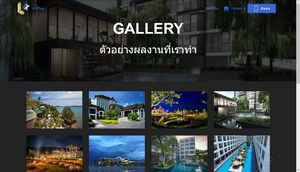
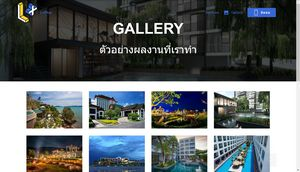
add GA code & social sharing image

Changed region(s): [[0.0, 0.4651, 1.0, 1.0], [0.69, 0.0, 0.93, 0.1163], [0.03, 0.0, 0.18, 0.1453]]

diff --git a/gallery.html b/gallery.html
@@ -5,7 +5,11 @@
   <meta charset="UTF-8">
   <meta http-equiv="X-UA-Compatible" content="IE=edge">
   
-  <meta name="viewport" content="width=device-width, initial-scale=1, minimum-scale=1">
+  <meta name="twitter:card" content="summary_large_image">
+<meta name="twitter:image:src" content="assets/images/gallery-meta.jpg">
+<meta property="og:image" content="assets/images/gallery-meta.jpg">
+<meta name="twitter:title" content="L Plus | Gallery ผลงานการจัดสวน">
+<meta name="viewport" content="width=device-width, initial-scale=1, minimum-scale=1">
   <link rel="shortcut icon" href="assets/images/l-plus-logo-182x198.png" type="image/x-icon">
   <meta name="description" content="L-Plus | Full Service Landscaping - from design, planning to installing and maintenance | จัดสวน ดีไซน์ ปลูกต้นไม้ ดูแล | Gallery ผลงาน">
   
@@ -22,11 +26,33 @@
   <link rel="preload" as="style" href="assets/mobirise/css/mbr-additional.css"><link rel="stylesheet" href="assets/mobirise/css/mbr-additional.css" type="text/css">
   
   
-  
+  <!-- Global site tag (gtag.js) - Google Analytics -->
+<script async="" src="https://www.googletagmanager.com/gtag/js?id=UA-106058419-6"></script>
+<script>
+  window.dataLayer = window.dataLayer || [];
+  function gtag(){dataLayer.push(arguments);}
+  gtag('js', new Date());
+
+  gtag('config', 'UA-106058419-6');
+</script>
 </head>
 <body>
 
 <section id='top-1'></section>
+
+
+
+<!-- Analytics -->
+<!-- Global site tag (gtag.js) - Google Analytics -->
+<script async="" src="https://www.googletagmanager.com/gtag/js?id=UA-106058419-6"></script>
+<script>
+  window.dataLayer = window.dataLayer || [];
+  function gtag(){dataLayer.push(arguments);}
+  gtag('js', new Date());
+
+  gtag('config', 'UA-106058419-6');
+</script>
+<!-- /Analytics -->
 
 
   <section class="menu cid-rOhusrHan5" once="menu" id="menu2-9">
@@ -100,70 +126,70 @@
       	<div class="row mbr-gallery">
           	<div class="col-sm-6 col-md-4 col-lg-3 item gallery-image">
                 <div class="item-wrapper">
-                    <a href="https://photos.app.goo.gl/UYr68pYS32rdbCbJ6" target="_blank"><img class="w-100" src="assets/images/hktwi-exterior-0425-hor-clsc-1280x720-800x450.jpg" alt="The Westin Siray Bay Resort &amp; Spa" data-slide-to="0" title="The Westin Siray Bay Resort &amp; Spa, Phuket" data-target="#rOE8XTnrdC"></a>
+                    <a href="https://photos.app.goo.gl/UYr68pYS32rdbCbJ6" target="_blank"><img class="w-100" src="assets/images/hktwi-exterior-0425-hor-clsc-1280x720-800x450.jpg" alt="The Westin Siray Bay Resort &amp; Spa" data-slide-to="0" title="The Westin Siray Bay Resort &amp; Spa, Phuket" data-target="#rOExjAy4eJ"></a>
                 </div>
             </div>
             <div class="col-sm-6 col-md-4 col-lg-3 item gallery-image">
                 <div class="item-wrapper">
-                    <a href="https://photos.app.goo.gl/HNFifUmyayvUivRr8" target="_blank"><img class="w-100" src="assets/images/avani-khon-kaen-property-teaser-800x389-2.webp" alt="Avani Khon Kaen" data-slide-to="1" title="Avani Khon Kaen" data-target="#rOE8XTnrdC"></a>
+                    <a href="https://photos.app.goo.gl/HNFifUmyayvUivRr8" target="_blank"><img class="w-100" src="assets/images/avani-khon-kaen-property-teaser-800x389-2.webp" alt="Avani Khon Kaen" data-slide-to="1" title="Avani Khon Kaen" data-target="#rOExjAy4eJ"></a>
                 </div>
             </div>
             
             <div class="col-sm-6 col-md-4 col-lg-3 item gallery-image">
                 <div class="item-wrapper">
-                    <a href="https://photos.app.goo.gl/UBjhdjw8GvH51yoS9" target="_blank"><img class="w-100" src="assets/images/legend-siam-pattaya-avengo-2-510x340.jpg" alt="Legend Siam" data-slide-to="2" title="Legend Siam, Pattaya" data-target="#rOE8XTnrdC"></a>
+                    <a href="https://photos.app.goo.gl/UBjhdjw8GvH51yoS9" target="_blank"><img class="w-100" src="assets/images/legend-siam-pattaya-avengo-2-510x340.jpg" alt="Legend Siam" data-slide-to="2" title="Legend Siam, Pattaya" data-target="#rOExjAy4eJ"></a>
                 </div>
             </div><div class="col-sm-6 col-md-4 col-lg-3 item gallery-image">
                 <div class="item-wrapper">
-                    <a href="https://photos.app.goo.gl/oyH6TS4NULiRqYMx9" target="_blank"><img class="w-100" src="assets/images/perspective-clubhouse-01-1-510x263.jpg" alt="Serio" data-slide-to="3" title="Serio Sukhumvit 50" data-target="#rOE8XTnrdC"></a>
+                    <a href="https://photos.app.goo.gl/oyH6TS4NULiRqYMx9" target="_blank"><img class="w-100" src="assets/images/perspective-clubhouse-01-1-510x263.jpg" alt="Serio" data-slide-to="3" title="Serio Sukhumvit 50" data-target="#rOExjAy4eJ"></a>
                 </div>
             </div><div class="col-sm-6 col-md-4 col-lg-3 item gallery-image">
                 <div class="item-wrapper">
-                    <a href="https://photos.app.goo.gl/nCD1TPJ1e5a9rnWg9" target="_blank"><img class="w-100" src="assets/images/lala-mukha-tented-resort-khao-yai-sensasian-concept-thailand-chiang-mai-510x383.jpg" alt="Lala Mukha" data-slide-to="4" title="Lala Mukha, Khao Yai" data-target="#rOE8XTnrdC"></a>
+                    <a href="https://photos.app.goo.gl/nCD1TPJ1e5a9rnWg9" target="_blank"><img class="w-100" src="assets/images/lala-mukha-tented-resort-khao-yai-sensasian-concept-thailand-chiang-mai-510x383.jpg" alt="Lala Mukha" data-slide-to="4" title="Lala Mukha, Khao Yai" data-target="#rOExjAy4eJ"></a>
                 </div>
             </div><div class="col-sm-6 col-md-4 col-lg-3 item gallery-image">
                 <div class="item-wrapper">
-                    <a href="https://photos.app.goo.gl/Bwfo8UpSCKDVTdGh8" target="_blank"><img class="w-100" src="assets/images/002-387x290.jpg" alt="Lou Poon Pon Rice Mill" data-slide-to="5" title="Lou Poon Pon Rice Mill, Nakhon Sawan" data-target="#rOE8XTnrdC"></a>
+                    <a href="https://photos.app.goo.gl/Bwfo8UpSCKDVTdGh8" target="_blank"><img class="w-100" src="assets/images/002-387x290.jpg" alt="Lou Poon Pon Rice Mill" data-slide-to="5" title="Lou Poon Pon Rice Mill, Nakhon Sawan" data-target="#rOExjAy4eJ"></a>
                 </div>
             </div><div class="col-sm-6 col-md-4 col-lg-3 item gallery-image">
                 <div class="item-wrapper">
-                    <a href="https://photos.app.goo.gl/RwpTxbqCtBZWFdQV9" target="_blank"><img class="w-100" src="assets/images/88204c924c8d8af38c810030a0906e15-387x258.jpg" alt="Chanalai Romantica Resort" data-slide-to="6" title="Chanalai Romantica Resort, Phuket" data-target="#rOE8XTnrdC"></a>
+                    <a href="https://photos.app.goo.gl/RwpTxbqCtBZWFdQV9" target="_blank"><img class="w-100" src="assets/images/88204c924c8d8af38c810030a0906e15-387x258.jpg" alt="Chanalai Romantica Resort" data-slide-to="6" title="Chanalai Romantica Resort, Phuket" data-target="#rOExjAy4eJ"></a>
                 </div>
             </div><div class="col-sm-6 col-md-4 col-lg-3 item gallery-image">
                 <div class="item-wrapper">
-                    <a href="https://photos.app.goo.gl/XutSZixgnM1aVJ7Y8" target="_blank"><img class="w-100" src="assets/images/42ccdefe08a86b316e69a0bee0e353f7-510x338.jpg" alt="Woraburi - The Ritz" data-slide-to="7" title="Woraburi - The Ritz, Pattaya" data-target="#rOE8XTnrdC"></a>
+                    <a href="https://photos.app.goo.gl/XutSZixgnM1aVJ7Y8" target="_blank"><img class="w-100" src="assets/images/42ccdefe08a86b316e69a0bee0e353f7-510x338.jpg" alt="Woraburi - The Ritz" data-slide-to="7" title="Woraburi - The Ritz, Pattaya" data-target="#rOExjAy4eJ"></a>
                 </div>
             </div><div class="col-sm-6 col-md-4 col-lg-3 item gallery-image">
                 <div class="item-wrapper">
-                    <a href="https://photos.app.goo.gl/MPpxz1RRk1KaunW88" target="_blank"><img class="w-100" src="assets/images/images-261x193.jpg" alt="Woraburi - The Ritz" data-slide-to="8" title="Woraburi - The Ritz, Pattaya" data-target="#rOE8XTnrdC"></a>
+                    <a href="https://photos.app.goo.gl/MPpxz1RRk1KaunW88" target="_blank"><img class="w-100" src="assets/images/images-261x193.jpg" alt="Woraburi - The Ritz" data-slide-to="8" title="Woraburi - The Ritz, Pattaya" data-target="#rOExjAy4eJ"></a>
                 </div>
             </div><div class="col-sm-6 col-md-4 col-lg-3 item gallery-image">
                 <div class="item-wrapper">
-                    <a href="https://photos.app.goo.gl/uCsjtZSPKPKgYxho9" target="_blank"><img class="w-100" src="assets/images/vqsp8dwhxs2tl6hgttjx-510x339.jpg" alt="Hua Hin Horizon" data-slide-to="9" title="Hua Hin Horizon" data-target="#rOE8XTnrdC"></a>
+                    <a href="https://photos.app.goo.gl/uCsjtZSPKPKgYxho9" target="_blank"><img class="w-100" src="assets/images/vqsp8dwhxs2tl6hgttjx-510x339.jpg" alt="Hua Hin Horizon" data-slide-to="9" title="Hua Hin Horizon" data-target="#rOExjAy4eJ"></a>
                 </div>
             </div><div class="col-sm-6 col-md-4 col-lg-3 item gallery-image">
                 <div class="item-wrapper">
-                    <a href="https://photos.app.goo.gl/EAnWnBxE2txf24DT7" target="_blank"><img class="w-100" src="assets/images/4776-20190327064955-510x680.jpeg" alt="Holiday Inn Express" data-slide-to="10" title="Holiday Inn Express Siam" data-target="#rOE8XTnrdC"></a>
+                    <a href="https://photos.app.goo.gl/EAnWnBxE2txf24DT7" target="_blank"><img class="w-100" src="assets/images/4776-20190327064955-510x680.jpeg" alt="Holiday Inn Express" data-slide-to="10" title="Holiday Inn Express Siam" data-target="#rOExjAy4eJ"></a>
                 </div>
             </div><div class="col-sm-6 col-md-4 col-lg-3 item gallery-image">
                 <div class="item-wrapper">
-                    <a href="https://photos.app.goo.gl/TkALcHM6sPWSqF2BA" target="_blank"><img class="w-100" src="assets/images/58922551-2485583651460122-6742949134023524352-n-510x382.jpeg" alt="St. Mary's School" data-slide-to="11" title="St. Mary's School Sathorn" data-target="#rOE8XTnrdC"></a>
+                    <a href="https://photos.app.goo.gl/TkALcHM6sPWSqF2BA" target="_blank"><img class="w-100" src="assets/images/58922551-2485583651460122-6742949134023524352-n-510x382.jpeg" alt="St. Mary's School" data-slide-to="11" title="St. Mary's School Sathorn" data-target="#rOExjAy4eJ"></a>
                 </div>
             </div><div class="col-sm-6 col-md-4 col-lg-3 item gallery-image">
                 <div class="item-wrapper">
-                    <a href="https://photos.app.goo.gl/WiUpQywLW5vJmcRw8" target="_blank"><img class="w-100" src="assets/images/78183580-1726349680830966-5283781025099415552-n-510x383.jpg" alt="27 Resort" data-slide-to="12" title="27 Resort, Suphan Buri" data-target="#rOE8XTnrdC"></a>
+                    <a href="https://photos.app.goo.gl/WiUpQywLW5vJmcRw8" target="_blank"><img class="w-100" src="assets/images/78183580-1726349680830966-5283781025099415552-n-510x383.jpg" alt="27 Resort" data-slide-to="12" title="27 Resort, Suphan Buri" data-target="#rOExjAy4eJ"></a>
                 </div>
             </div><div class="col-sm-6 col-md-4 col-lg-3 item gallery-image">
                 <div class="item-wrapper">
-                    <a href="https://photos.app.goo.gl/67dSdwYDF6TMh5446" target="_blank"><img class="w-100" src="assets/images/1374740315814-510x383.jpg" alt="Kluaynamthai Hospital" data-slide-to="13" title="Kluaynamthai Hospital" data-target="#rOE8XTnrdC"></a>
+                    <a href="https://photos.app.goo.gl/67dSdwYDF6TMh5446" target="_blank"><img class="w-100" src="assets/images/1374740315814-510x383.jpg" alt="Kluaynamthai Hospital" data-slide-to="13" title="Kluaynamthai Hospital" data-target="#rOExjAy4eJ"></a>
                 </div>
             </div><div class="col-sm-6 col-md-4 col-lg-3 item gallery-image">
                 <div class="item-wrapper">
-                    <a href="https://photos.app.goo.gl/Z2RsnnmVgEw9Hdrt7"><img class="w-100" src="assets/images/85-big-510x383.jpg" alt="Mission Hospital" data-slide-to="14" title="Mission Hospital, Phuket" data-target="#rOE8XTnrdC"></a>
+                    <a href="https://photos.app.goo.gl/Z2RsnnmVgEw9Hdrt7"><img class="w-100" src="assets/images/85-big-510x383.jpg" alt="Mission Hospital" data-slide-to="14" title="Mission Hospital, Phuket" data-target="#rOExjAy4eJ"></a>
                 </div>
             </div><div class="col-sm-6 col-md-4 col-lg-3 item gallery-image">
                 <div class="item-wrapper">
-                    <a href="https://photos.app.goo.gl/3TJxLzorXByHANop8" target="_blank"><img class="w-100" src="assets/images/544590-254857737938868-220770641-n-254857737938868-510x339.jpg" alt="Onnut Factory" data-slide-to="15" title="Onnut Factory" data-target="#rOE8XTnrdC"></a>
+                    <a href="https://photos.app.goo.gl/3TJxLzorXByHANop8" target="_blank"><img class="w-100" src="assets/images/544590-254857737938868-220770641-n-254857737938868-510x339.jpg" alt="Onnut Factory" data-slide-to="15" title="Onnut Factory" data-target="#rOExjAy4eJ"></a>
                 </div>
             </div>
         </div>

diff --git a/index.html b/index.html
@@ -5,7 +5,11 @@
   <meta charset="UTF-8">
   <meta http-equiv="X-UA-Compatible" content="IE=edge">
   
-  <meta name="viewport" content="width=device-width, initial-scale=1, minimum-scale=1">
+  <meta name="twitter:card" content="summary_large_image">
+<meta name="twitter:image:src" content="assets/images/index-meta.jpg">
+<meta property="og:image" content="assets/images/index-meta.jpg">
+<meta name="twitter:title" content="L Plus | Landscape Design, Planning, Gardening, Care Taking | จัดสวน">
+<meta name="viewport" content="width=device-width, initial-scale=1, minimum-scale=1">
   <link rel="shortcut icon" href="assets/images/l-plus-logo-182x198.png" type="image/x-icon">
   <meta name="description" content="L-Plus | Full Service Landscaping - from design, planning to installing and maintenance | จัดสวน ดีไซน์ ปลูกต้นไม้ ดูแล">
   
@@ -22,11 +26,33 @@
   <link rel="preload" as="style" href="assets/mobirise/css/mbr-additional.css"><link rel="stylesheet" href="assets/mobirise/css/mbr-additional.css" type="text/css">
   
   
-  
+  <!-- Global site tag (gtag.js) - Google Analytics -->
+<script async="" src="https://www.googletagmanager.com/gtag/js?id=UA-106058419-6"></script>
+<script>
+  window.dataLayer = window.dataLayer || [];
+  function gtag(){dataLayer.push(arguments);}
+  gtag('js', new Date());
+
+  gtag('config', 'UA-106058419-6');
+</script>
 </head>
 <body>
 
 <section id='top-1'></section>
+
+
+
+<!-- Analytics -->
+<!-- Global site tag (gtag.js) - Google Analytics -->
+<script async="" src="https://www.googletagmanager.com/gtag/js?id=UA-106058419-6"></script>
+<script>
+  window.dataLayer = window.dataLayer || [];
+  function gtag(){dataLayer.push(arguments);}
+  gtag('js', new Date());
+
+  gtag('config', 'UA-106058419-6');
+</script>
+<!-- /Analytics -->
 
 
   <section class="menu cid-rOhusrHan5" once="menu" id="menu">
@@ -187,70 +213,70 @@
       	<div class="row mbr-gallery">
           	<div class="col-sm-6 col-md-4 col-lg-3 item gallery-image">
                 <div class="item-wrapper">
-                    <a href="https://photos.app.goo.gl/UYr68pYS32rdbCbJ6" target="_blank"><img class="w-100" src="assets/images/hktwi-exterior-0425-hor-clsc-1280x720-800x450.jpg" alt="The Westin Siray Bay Resort &amp; Spa" data-slide-to="0" title="The Westin Siray Bay Resort &amp; Spa, Phuket" data-target="#rOE8XMDi3d"></a>
+                    <a href="https://photos.app.goo.gl/UYr68pYS32rdbCbJ6" target="_blank"><img class="w-100" src="assets/images/hktwi-exterior-0425-hor-clsc-1280x720-800x450.jpg" alt="The Westin Siray Bay Resort &amp; Spa" data-slide-to="0" title="The Westin Siray Bay Resort &amp; Spa, Phuket" data-target="#rOExjrJEmH"></a>
                 </div>
             </div>
             <div class="col-sm-6 col-md-4 col-lg-3 item gallery-image">
                 <div class="item-wrapper">
-                    <a href="https://photos.app.goo.gl/HNFifUmyayvUivRr8" target="_blank"><img class="w-100" src="assets/images/avani-khon-kaen-property-teaser-800x389-2.webp" alt="Avani Khon Kaen" data-slide-to="1" title="Avani Khon Kaen" data-target="#rOE8XMDi3d"></a>
+                    <a href="https://photos.app.goo.gl/HNFifUmyayvUivRr8" target="_blank"><img class="w-100" src="assets/images/avani-khon-kaen-property-teaser-800x389-2.webp" alt="Avani Khon Kaen" data-slide-to="1" title="Avani Khon Kaen" data-target="#rOExjrJEmH"></a>
                 </div>
             </div>
             
             <div class="col-sm-6 col-md-4 col-lg-3 item gallery-image">
                 <div class="item-wrapper">
-                    <a href="https://photos.app.goo.gl/UBjhdjw8GvH51yoS9" target="_blank"><img class="w-100" src="assets/images/legend-siam-pattaya-avengo-2-510x340.jpg" alt="Legend Siam" data-slide-to="2" title="Legend Siam, Pattaya" data-target="#rOE8XMDi3d"></a>
+                    <a href="https://photos.app.goo.gl/UBjhdjw8GvH51yoS9" target="_blank"><img class="w-100" src="assets/images/legend-siam-pattaya-avengo-2-510x340.jpg" alt="Legend Siam" data-slide-to="2" title="Legend Siam, Pattaya" data-target="#rOExjrJEmH"></a>
                 </div>
             </div><div class="col-sm-6 col-md-4 col-lg-3 item gallery-image">
                 <div class="item-wrapper">
-                    <a href="https://photos.app.goo.gl/oyH6TS4NULiRqYMx9" target="_blank"><img class="w-100" src="assets/images/perspective-clubhouse-01-1-510x263.jpg" alt="Serio" data-slide-to="3" title="Serio Sukhumvit 50" data-target="#rOE8XMDi3d"></a>
+                    <a href="https://photos.app.goo.gl/oyH6TS4NULiRqYMx9" target="_blank"><img class="w-100" src="assets/images/perspective-clubhouse-01-1-510x263.jpg" alt="Serio" data-slide-to="3" title="Serio Sukhumvit 50" data-target="#rOExjrJEmH"></a>
                 </div>
             </div><div class="col-sm-6 col-md-4 col-lg-3 item gallery-image">
                 <div class="item-wrapper">
-                    <a href="https://photos.app.goo.gl/nCD1TPJ1e5a9rnWg9" target="_blank"><img class="w-100" src="assets/images/lala-mukha-tented-resort-khao-yai-sensasian-concept-thailand-chiang-mai-510x383.jpg" alt="Lala Mukha" data-slide-to="4" title="Lala Mukha, Khao Yai" data-target="#rOE8XMDi3d"></a>
+                    <a href="https://photos.app.goo.gl/nCD1TPJ1e5a9rnWg9" target="_blank"><img class="w-100" src="assets/images/lala-mukha-tented-resort-khao-yai-sensasian-concept-thailand-chiang-mai-510x383.jpg" alt="Lala Mukha" data-slide-to="4" title="Lala Mukha, Khao Yai" data-target="#rOExjrJEmH"></a>
                 </div>
             </div><div class="col-sm-6 col-md-4 col-lg-3 item gallery-image">
                 <div class="item-wrapper">
-                    <a href="https://photos.app.goo.gl/Bwfo8UpSCKDVTdGh8" target="_blank"><img class="w-100" src="assets/images/002-387x290.jpg" alt="Lou Poon Pon Rice Mill" data-slide-to="5" title="Lou Poon Pon Rice Mill, Nakhon Sawan" data-target="#rOE8XMDi3d"></a>
+                    <a href="https://photos.app.goo.gl/Bwfo8UpSCKDVTdGh8" target="_blank"><img class="w-100" src="assets/images/002-387x290.jpg" alt="Lou Poon Pon Rice Mill" data-slide-to="5" title="Lou Poon Pon Rice Mill, Nakhon Sawan" data-target="#rOExjrJEmH"></a>
                 </div>
             </div><div class="col-sm-6 col-md-4 col-lg-3 item gallery-image">
                 <div class="item-wrapper">
-                    <a href="https://photos.app.goo.gl/RwpTxbqCtBZWFdQV9" target="_blank"><img class="w-100" src="assets/images/88204c924c8d8af38c810030a0906e15-387x258.jpg" alt="Chanalai Romantica Resort" data-slide-to="6" title="Chanalai Romantica Resort, Phuket" data-target="#rOE8XMDi3d"></a>
+                    <a href="https://photos.app.goo.gl/RwpTxbqCtBZWFdQV9" target="_blank"><img class="w-100" src="assets/images/88204c924c8d8af38c810030a0906e15-387x258.jpg" alt="Chanalai Romantica Resort" data-slide-to="6" title="Chanalai Romantica Resort, Phuket" data-target="#rOExjrJEmH"></a>
                 </div>
             </div><div class="col-sm-6 col-md-4 col-lg-3 item gallery-image">
                 <div class="item-wrapper">
-                    <a href="https://photos.app.goo.gl/XutSZixgnM1aVJ7Y8" target="_blank"><img class="w-100" src="assets/images/42ccdefe08a86b316e69a0bee0e353f7-510x338.jpg" alt="Woraburi - The Ritz" data-slide-to="7" title="Woraburi - The Ritz, Pattaya" data-target="#rOE8XMDi3d"></a>
+                    <a href="https://photos.app.goo.gl/XutSZixgnM1aVJ7Y8" target="_blank"><img class="w-100" src="assets/images/42ccdefe08a86b316e69a0bee0e353f7-510x338.jpg" alt="Woraburi - The Ritz" data-slide-to="7" title="Woraburi - The Ritz, Pattaya" data-target="#rOExjrJEmH"></a>
                 </div>
             </div><div class="col-sm-6 col-md-4 col-lg-3 item gallery-image">
                 <div class="item-wrapper">
-                    <a href="https://photos.app.goo.gl/MPpxz1RRk1KaunW88" target="_blank"><img class="w-100" src="assets/images/images-261x193.jpg" alt="Woraburi - The Ritz" data-slide-to="8" title="Woraburi - The Ritz, Pattaya" data-target="#rOE8XMDi3d"></a>
+                    <a href="https://photos.app.goo.gl/MPpxz1RRk1KaunW88" target="_blank"><img class="w-100" src="assets/images/images-261x193.jpg" alt="Woraburi - The Ritz" data-slide-to="8" title="Woraburi - The Ritz, Pattaya" data-target="#rOExjrJEmH"></a>
                 </div>
             </div><div class="col-sm-6 col-md-4 col-lg-3 item gallery-image">
                 <div class="item-wrapper">
-                    <a href="https://photos.app.goo.gl/uCsjtZSPKPKgYxho9" target="_blank"><img class="w-100" src="assets/images/vqsp8dwhxs2tl6hgttjx-510x339.jpg" alt="Hua Hin Horizon" data-slide-to="9" title="Hua Hin Horizon" data-target="#rOE8XMDi3d"></a>
+                    <a href="https://photos.app.goo.gl/uCsjtZSPKPKgYxho9" target="_blank"><img class="w-100" src="assets/images/vqsp8dwhxs2tl6hgttjx-510x339.jpg" alt="Hua Hin Horizon" data-slide-to="9" title="Hua Hin Horizon" data-target="#rOExjrJEmH"></a>
                 </div>
             </div><div class="col-sm-6 col-md-4 col-lg-3 item gallery-image">
                 <div class="item-wrapper">
-                    <a href="https://photos.app.goo.gl/EAnWnBxE2txf24DT7" target="_blank"><img class="w-100" src="assets/images/4776-20190327064955-510x680.jpeg" alt="Holiday Inn Express" data-slide-to="10" title="Holiday Inn Express Siam" data-target="#rOE8XMDi3d"></a>
+                    <a href="https://photos.app.goo.gl/EAnWnBxE2txf24DT7" target="_blank"><img class="w-100" src="assets/images/4776-20190327064955-510x680.jpeg" alt="Holiday Inn Express" data-slide-to="10" title="Holiday Inn Express Siam" data-target="#rOExjrJEmH"></a>
                 </div>
             </div><div class="col-sm-6 col-md-4 col-lg-3 item gallery-image">
                 <div class="item-wrapper">
-                    <a href="https://photos.app.goo.gl/TkALcHM6sPWSqF2BA" target="_blank"><img class="w-100" src="assets/images/58922551-2485583651460122-6742949134023524352-n-510x382.jpeg" alt="St. Mary's School" data-slide-to="11" title="St. Mary's School Sathorn" data-target="#rOE8XMDi3d"></a>
+                    <a href="https://photos.app.goo.gl/TkALcHM6sPWSqF2BA" target="_blank"><img class="w-100" src="assets/images/58922551-2485583651460122-6742949134023524352-n-510x382.jpeg" alt="St. Mary's School" data-slide-to="11" title="St. Mary's School Sathorn" data-target="#rOExjrJEmH"></a>
                 </div>
             </div><div class="col-sm-6 col-md-4 col-lg-3 item gallery-image">
                 <div class="item-wrapper">
-                    <a href="https://photos.app.goo.gl/WiUpQywLW5vJmcRw8" target="_blank"><img class="w-100" src="assets/images/78183580-1726349680830966-5283781025099415552-n-510x383.jpg" alt="27 Resort" data-slide-to="12" title="27 Resort, Suphan Buri" data-target="#rOE8XMDi3d"></a>
+                    <a href="https://photos.app.goo.gl/WiUpQywLW5vJmcRw8" target="_blank"><img class="w-100" src="assets/images/78183580-1726349680830966-5283781025099415552-n-510x383.jpg" alt="27 Resort" data-slide-to="12" title="27 Resort, Suphan Buri" data-target="#rOExjrJEmH"></a>
                 </div>
             </div><div class="col-sm-6 col-md-4 col-lg-3 item gallery-image">
                 <div class="item-wrapper">
-                    <a href="https://photos.app.goo.gl/67dSdwYDF6TMh5446" target="_blank"><img class="w-100" src="assets/images/1374740315814-510x383.jpg" alt="Kluaynamthai Hospital" data-slide-to="13" title="Kluaynamthai Hospital" data-target="#rOE8XMDi3d"></a>
+                    <a href="https://photos.app.goo.gl/67dSdwYDF6TMh5446" target="_blank"><img class="w-100" src="assets/images/1374740315814-510x383.jpg" alt="Kluaynamthai Hospital" data-slide-to="13" title="Kluaynamthai Hospital" data-target="#rOExjrJEmH"></a>
                 </div>
             </div><div class="col-sm-6 col-md-4 col-lg-3 item gallery-image">
                 <div class="item-wrapper">
-                    <a href="https://photos.app.goo.gl/Z2RsnnmVgEw9Hdrt7"><img class="w-100" src="assets/images/85-big-510x383.jpg" alt="Mission Hospital" data-slide-to="14" title="Mission Hospital, Phuket" data-target="#rOE8XMDi3d"></a>
+                    <a href="https://photos.app.goo.gl/Z2RsnnmVgEw9Hdrt7"><img class="w-100" src="assets/images/85-big-510x383.jpg" alt="Mission Hospital" data-slide-to="14" title="Mission Hospital, Phuket" data-target="#rOExjrJEmH"></a>
                 </div>
             </div><div class="col-sm-6 col-md-4 col-lg-3 item gallery-image">
                 <div class="item-wrapper">
-                    <a href="https://photos.app.goo.gl/3TJxLzorXByHANop8" target="_blank"><img class="w-100" src="assets/images/544590-254857737938868-220770641-n-254857737938868-510x339.jpg" alt="Onnut Factory" data-slide-to="15" title="Onnut Factory" data-target="#rOE8XMDi3d"></a>
+                    <a href="https://photos.app.goo.gl/3TJxLzorXByHANop8" target="_blank"><img class="w-100" src="assets/images/544590-254857737938868-220770641-n-254857737938868-510x339.jpg" alt="Onnut Factory" data-slide-to="15" title="Onnut Factory" data-target="#rOExjrJEmH"></a>
                 </div>
             </div>
         </div>
